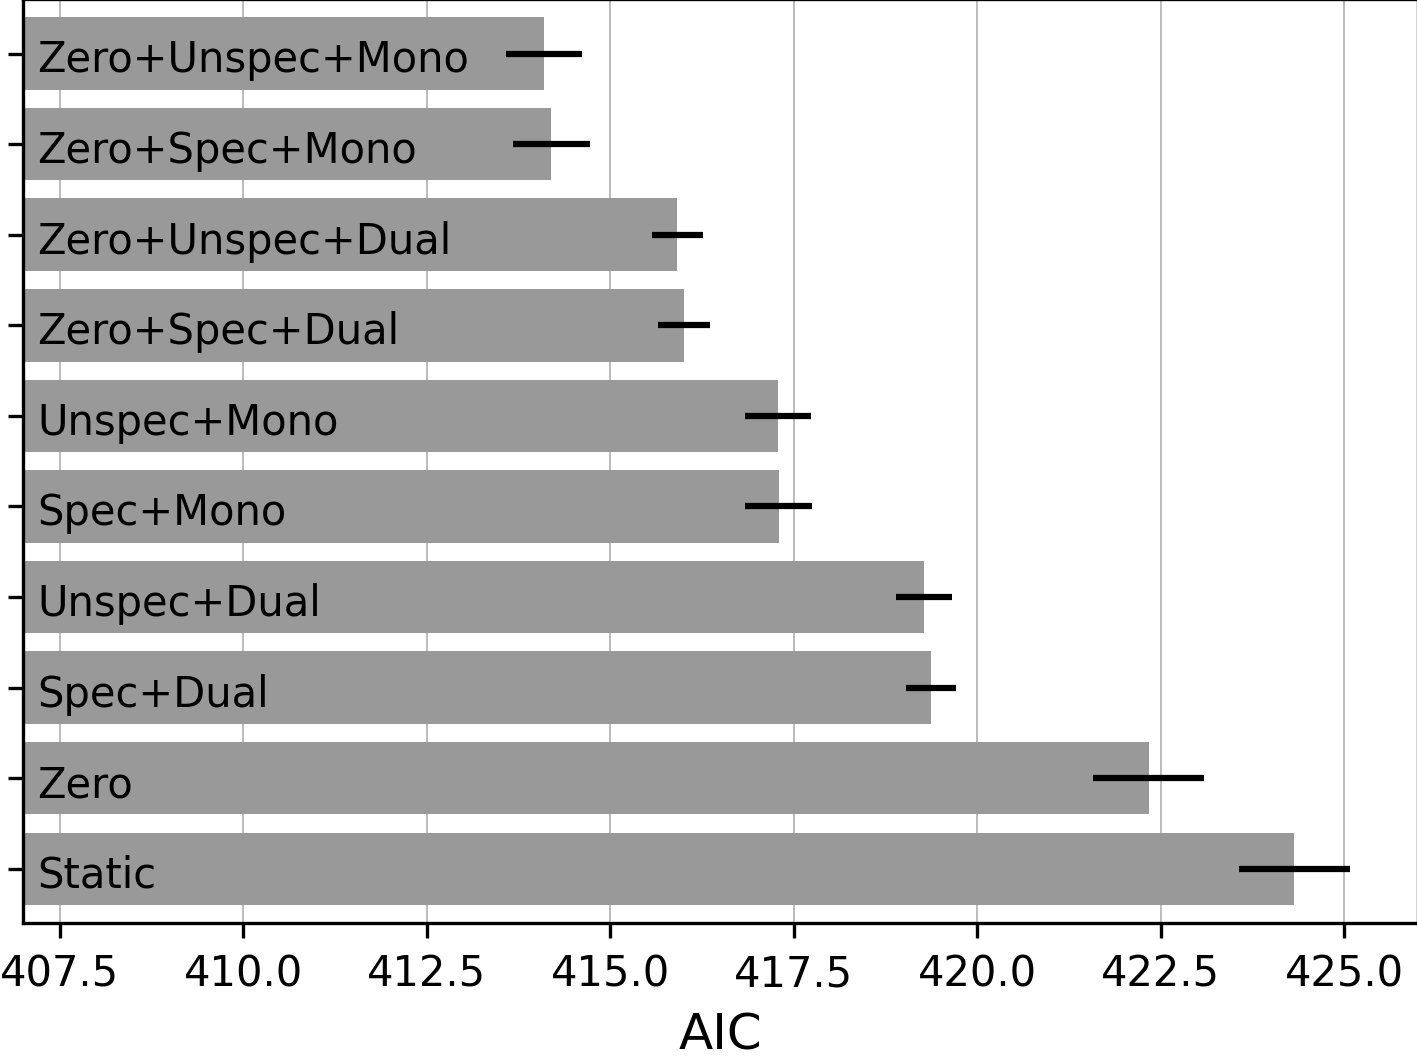
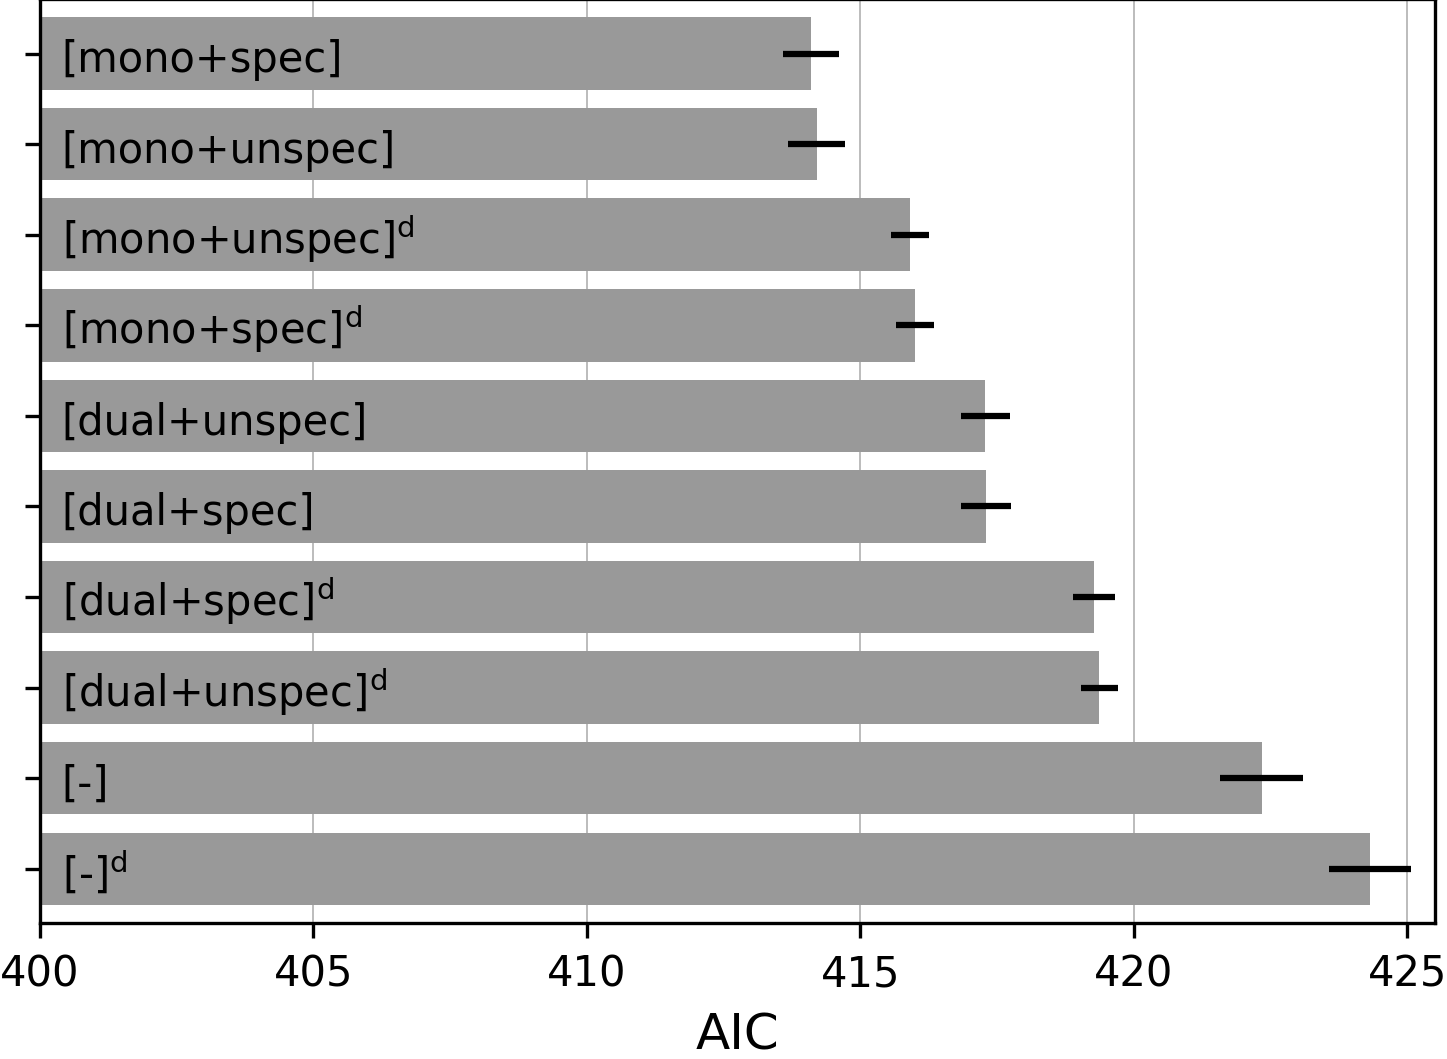
Add new plot for AIC; suggestion how to import local packages

diff --git a/plot/plot_aic_mg.py b/plot/plot_aic_mg.py
@@ -18,8 +18,12 @@ color_aic = (0.6, 0.6, 0.6)
 
 # model_name = ['Rescorla\nStatic', 'Rescorla\nZero', 'Rescorla\nConf', 'Rescorla\nConfGen', 'Rescorla\nConfNofeed', 'Rescorla\nConfNofeedGen',
 #               'Rescorla\nConfZero', 'Rescorla\nConfZeroGen', 'Rescorla\nConfNofeedZero', 'Rescorla\nConfNofeedZeroGen']
-model_name = ['Static', 'Zero', 'Spec+Dual', 'Unspec+Dual', 'Spec+Mono', 'Unspec+Mono',
-              'Zero+Spec+Dual', 'Zero+Unspec+Dual', 'Zero+Spec+Mono', 'Zero+Unspec+Mono']
+model_name = ['NoDeval [-]', 'Deval [-]', 'NoDeval [Spec+Dual]', 'NoDeval [Unspec+Dual]',
+              'NoDeval [Spec+Mono]', 'NoDeval [Unspec+Mono]', 'Deval [Spec+Dual]', 'Deval [Unspec+Dual]',
+              'Deval [Spec+Mono]', 'Deval [unspec+Mono]']
+model_name = ['[-]', '[-]$^\mathrm{d}$', '[dual+spec]', '[dual+unspec]',
+              '[mono+spec]', '[mono+unspec]', '[dual+spec]$^\mathrm{d}$', '[dual+unspec]$^\mathrm{d}$',
+              '[mono+spec]$^\mathrm{d}$', '[mono+unspec]$^\mathrm{d}$']
 n_models = len(model_name)
 n_subjects = 66
 
@@ -39,12 +43,12 @@ plt.gca().xaxis.grid('silver', linestyle='-', linewidth=0.4, zorder=-5)
 plt.barh(range(n_models), AICm[order], xerr=AICe, color=color_aic, zorder=2)
 
 for t in range(n_models):
-    plt.text(407.2, order[t]-0.2, model_name[order[t]], color='k', fontsize=10, zorder=3)
+    plt.text(400.4, t-0.2, model_name[order[t]], color='k', fontsize=10, zorder=3)
 
 plt.xlabel('AIC')
-# plt.xticks(np.arange(n_models), model_name, fontsize=10)
+plt.xticks(range(400, 426, 5))
 plt.yticks(range(n_models), [])
-plt.xlim(407, 426)
+plt.xlim(400, 425.5)
 plt.ylim(-0.6, n_models-0.4)
 set_fontsize(xlabel=12, tick=10)
 savefig('../figures/fitting/AIC_ConfSim_MG.png')

diff --git a/plot/corr_alpha_alpha_c_winning_mg.py b/plot/corr_alpha_alpha_c_winning_mg.py
@@ -1,0 +1,45 @@
+import os
+import sys
+import numpy as np
+import pandas as pd
+import matplotlib.pyplot as plt
+
+from pathlib import Path
+from scipy import stats
+import pingouin as pg
+
+# This is a trick to import local packages (without Pycharm complaining)
+sys.path.append(os.path.dirname(__file__))
+from plot_util import set_fontsize, savefig  # noqa
+
+cwd = Path.cwd()
+path_data = os.path.join(cwd, '../results/fittingData')
+
+models = np.arange(1, 10)
+n_subjects = 66
+
+winning_model = 4
+# winning_model = 5
+
+fittingData0 = pd.read_pickle(os.path.join(path_data, f'fittingDataM0.pkl'))
+fittingData = pd.read_pickle(os.path.join(path_data, f'fittingDataM{winning_model}.pkl'))
+
+plt.figure(figsize=(5, 4))
+
+# rho, pval = stats.spearmanr(fittingData.ALPHA_C, fittingData0.ALPHA)
+rho, pval, outliers = pg.correlation.shepherd(fittingData.ALPHA_C, fittingData0.ALPHA)
+# corr = np.corrcoef(fittingData.ALPHA_C, fittingData.ALPHA)[0][1]
+plt.scatter(fittingData.ALPHA_C, fittingData0.ALPHA, s=8, c=(0.5, 0.5, 0.5), marker='o')
+plt.xlabel(r'Confidence learning rate $\alpha_c$')
+plt.ylabel(r'Value learning rate $\alpha$')
+# plt.xticks(np.arange(0, 1.2, step=0.2))
+# plt.yticks(np.arange(0, 1.2, step=0.2))
+if pval < 0.001:
+    plt.text(0.4, 0.5, fr'$r={rho:.2f}\;\;(p<0.001)$', color='k', fontsize=10)
+else:
+    plt.text(0.4, 0.5, fr'$r={rho:.2f}\;\;(p={pval:.3f})$', color='k', fontsize=10)
+# plt.grid('silver', linestyle='-', linewidth=0.4)
+
+# os.makedirs('../figures/param_corr')
+savefig('../figures/param_corr/corr_gamma_alpha_winning_mg.png')
+plt.close()
